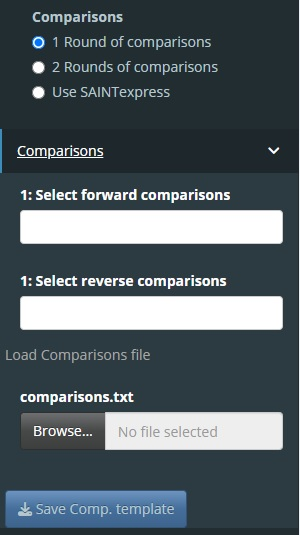
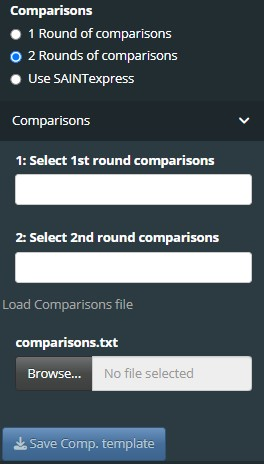
Added PCA values download option
Added to help file

diff --git a/app/www/index.html b/app/www/index.html
@@ -41,7 +41,7 @@
 <h3><FONT COLOR="#000000">2. Save Exp. Template</h3>
 <h3><FONT COLOR="#000000">3. Modify Exp. Template (Use a spreadsheet editor)</h3>
 <h3><FONT COLOR="#000000">4. Load modified Exp. Template</h3>
-<h3><FONT COLOR="#000000">5. Pick Comparisons or Generate comparison file from Comp. template</h3>
+<h3><FONT COLOR="#000000">5. Pick Comparisons or Generate comparison file from Comp. template and upload</h3>
 <h3><FONT COLOR="#000000">6. Press "Analyse"</h3>
 <h1><FONT COLOR="#61D04F">Instructions</h1>
 <h2><FONT COLOR="#2297E6">Sidebar Menu</h2>
@@ -71,9 +71,9 @@
 			<div class="text">
 				<h3>Choose Comparisons</h3>
 				<p>The app can process either one set of comparisons, two sets of comparisons or one set of comparisons with SAINTexpress processing. </p>
-				<p>The comparisons choices are generated automatically from the condition column, and are in both orientations. Eg. Cond.A_vs_Cond.B will be found in the forward comparisons list and Cond.B_vs_Cond.A will be found in the reverse comparisons list. Multiple comparisons can be selected from either drop down box, and then they are combined to give the total comparison list.</p>
+				<p>The comparisons choices are generated automatically from the condition column of the Experimental Design file and are in both orientations. Eg. Cond.A_vs_Cond.B and Cond.B_vs_Cond.A. Multiple comparisons can be selected from the drop down box.</p>
 				<h3>Second round of comparisons</h3>
-				<p>If the "2 Rounds of comparisons" is selected a further set of two drop boxes will appear. This allows two independent comparisons with different cut-off values, to be analysed, which are then  combined to generate a protein list that common to both. The 2nd round comparisons are chosen in the same manner as the 1st. </p>
+				<p>If the "2 Rounds of comparisons" is selected a further drop box will appear. This allows two independent comparisons with different cut-off values, to be analysed, which are then  combined to generate a protein list that common to both. The 2nd round comparisons are chosen in the same manner as the 1st. </p>
 				<h3>Comparisons File input</h3>
 				<p>If there are a large amount of conditions it is advised to generate a comparison file. This can be generated by downloading the Comp. template. This contains a list of the conditions the are generated from the Exp template, in the 1st column, which can then be copied into the 2nd and 3rd columns for the 1st round of comparisons, or the 4th and 5th columns for the 2nd round comparisons. If SAINTexpress analysis is performed only the 1st round of comparisons will be used. See the image below for guidance.</p>
 			</div>
@@ -81,6 +81,16 @@
 		<div class="image">
 			<img src="comparisons.jpg" width=400px class="center">
 		</div>
+				<div class="flex-container">
+			<div class="image">
+				<img src="two_dataset.jpg" width=200px>
+			</div>
+			<div class="text">
+				<h3>Two dataset comparison mode</h3>
+				<p>If the Two Dataset comparison mode toggle is activated, this now allows two separate data files to be loaded. They can be from the same data-type or different (eg. MaxQuant and FragPipe analysis, or FragPipe DDA and DIA data). Each must have is own Experimental Design file, which can be generated from its specific template file. The comparison template file will now have a sixth column containing the list of the conditions from the second Experimental Template, which must be used to generate the conditions for the second round of comparisons (4th and 5th columns).</p> 
+			</div>
+		</div>
+
 			<div class="text">
 		<h3><FONT COLOR="#000000">Start Analysis</h3>
 			<p>After the comparisons have been selected press the "Analyse" button to begin the calculations.</p>
@@ -104,7 +114,7 @@
 				<h3>Set Fold-change and p-adj. cut off values</h3>
 				<p>Fold-change cut off values will be converted to log2Fold-Change. For an identified protein to be included in the significant list the fold change must be >= the the chosen value in one of the chosen comparisons. </p>
 				<p>p-adj vale cut-off. For an identified protein to be included in the significant list the p-adj value must be <= the chosen value in one of the chosen comparisons. p-adj values should normally be used for selecting cut-off values, however the cut-off values can be changed to using non-adjusted p.Val by selecting the "Use p.Val" box.</p>
-				<p>Fold-change and p-adj values for the 2 round of comparisons can be specified in the second set of boxes  </p>
+				<p>Fold-change and p-adj values for the 2 round of comparisons or the second dataset can be specified in the second set of boxes  </p>
 			</div>
 		</div>
 		<div class="flex-container">
@@ -145,11 +155,16 @@
 				<p><i>imputed: </i>Shows the log2 intensities for each of the after normalisation and imputation for each of the samples, indicating replicates</p>
 			</div>
 		</div>
-		
+		<div class="flex-container">
+			<div class="image">
+				<img src="abund_heatmap.jpg" width=200px>
+			</div>
 			<div class="text">
-				<h3><FONT COLOR="#000000">Heatmap</h3>
-				<p>This shows basic heatmaps of the significant protein list. The can be displayed as either <i>contrast: </i>Shows the log2 Fold Change values for the selected comparisons or <i>centrered: </i>Shows the log2 centered intensities (after imputation) for each of the samples. The color limit, Heatmap size and K means cluster number can be altered using the input boxes and the plot can be downloaded using the "Save heatmap" button. It can be can be resized using the "PDF Width" and "PDF Height" buttons.</p>
-				</div>
+				<h3><FONT COLOR="#000000">Abundance Heatmap</h3>
+				<p>This shows a heatmap of the log2 Intensity values of the most abundant proteins as ranked by their average log2 intensity over all the samples. The number of most abundant proteins can be changed using the input box, and the values can be switched from <i>imputed</i> to <i>normalised</i> values. Normalised values will contain missing values indicated by grey boxes. The heatmap can also be switched to show just the proteins from the significant protein list. The top annotation shows a violin plot indicating the log2 intensity values for each sample, for the proteins shown. The right annotation shown the mean intensity value for each protein, if normalised values are chosen the missing values are excluded from mean calculation.  The plot can be downloaded using the "Save heatmap" button. It can be can be resized using the "PDF Width" and "PDF Height" buttons. Below the the heatmap is a table containing the heatmap values along with information on the protein name and accession ID. This can be downloaded using the "Save Abundance Table" button. If a second dataset is loaded a second Abundance Heatmap will be available. </p>
+				
+			</div>
+		</div>
 		
 		<div class="flex-container">
 			<div class="image">
@@ -168,7 +183,7 @@
 			</div>
 			<div class="text">
 			<h3><FONT COLOR="#000000">PCA</h3>
-				<p>The Principle Component Analysis plot shows similarities between groups of samples in a data set. Each point on a PCA plot represents a correlation between an initial variable and the first and second principal components. Ideally the points should be grouped together for each of the conditions (as shown), rather than grouped by replicate, or grouped randomly. The plot can be saved as a pdf file and resized using the "PDF Width" and "PDF Height" buttons.</p>
+				<p>The Principle Component Analysis plot shows similarities between groups of samples in a data set. Each point on a PCA plot represents a correlation between an initial variable and the first and second principal components. Ideally the points should be grouped together for each of the conditions (as shown), rather than grouped by replicate, or grouped randomly. The plot can be saved as a pdf file and resized using the "PDF Width" and "PDF Height" buttons. The values used to generate the plot can also be downloaded for plotting in another application using the "Save Values" button. If two datasets are loaded a second PCA plot will be available. </p>
 			</div>
 		</div>
 
@@ -178,7 +193,7 @@
 			</div>
 			<div class="text">
 			<h3><FONT COLOR="#000000">Correlation</h3>
-				<p>The correlation tab shows heatmap showing the Pearson correlations between the different samples, using ratio data from the chosen comparisons. Ideally the sample replicates should be grouped together for each condition. If the plot is uniformly coloured over the entire plot this indicated there is only small differences between the samples. If two rounds of comparisons are chosen a second correlation plot is shown in a separate tab, based on the ratios from the second set of comparisons. The plots can be saved as a pdf files and resized using the "PDF Width" and "PDF Height" buttons.</p>
+				<p>The correlation tab shows heatmap showing the Pearson correlations between the different samples, using ratio data from the chosen comparisons. Ideally the sample replicates should be grouped together for each condition. If the plot is uniformly coloured over the entire plot this indicated there is only small differences between the samples. If two rounds of comparisons are chosen a second correlation plot is shown in a separate tab, based on the ratios from the second set of comparisons. The plots can be saved as a pdf files and resized using the "PDF Width" and "PDF Height" buttons. If two datasets are loaded a second Correlation plot will be available.</p>
 			</div>
 		</div>
 			
@@ -193,15 +208,15 @@
 			</div>
 			
 		<h3><FONT COLOR="#2297E6">QC Plots</h3>
+		<div class="flex-container">
 			<div class="image">
 				<img src="numbers.jpg" width=200px>
 			</div>
 			<div class="text">
 				<h3><FONT COLOR="#000000">Protein Numbers</h3>
 					<p>This plot shows the number of identified proteins per sample after filtering. Filtering can be controlled using the "Missing value threshold as described earlier. </p>
-				</div>
 			</div>
-
+		</div>
 		<div class="flex-container">
 			<div class="image">
 				<img src="norm.jpg" width=200px>
@@ -210,7 +225,7 @@
 				<h3><FONT COLOR="#000000">Normalization</h3>
 					<p>The data is background corrected and normalized by variance stabilizing transformation (vsn). The distribution of the protein intensities is indicated for each sample before and after normalisation</p>
 			</div>
-			</div>
+		</div>
 			
 		<div class="flex-container">
 			<div class="image">
@@ -265,6 +280,31 @@
 				<p>The enhanced volcano plot can be saved as a pdf file and resized using the adjacent "PDF Width" and "PDF Height" buttons.</p>
 			</div>
 		</div>
+		<div class="flex-container">
+			<div class="image">
+				<img src="box_plots.jpg" width=300px>
+			</div>
+			<div class="text">
+				<h3><FONT COLOR="#000000">Box plots</h3>
+				<p>Box plots showing the log2 intensity values for each condition for all the proteins from chosen cluster are shown. The intensity values can be switched between imputed values or normalised only values, and the chosen cluster number can be changed. These plots can be used to asses the effect of imputation on the data and to identify which values were missing. It can also be used to evaluate the quality of each the replicates to observe if any set of replicates were consistent outliers.</p>
+				<p>The box plots can be saved as a pdf file and resized using the adjacent "PDF Width" and "PDF Height" buttons.</p>
+			</div>
+		</div>
+		<div class="flex-container">
+			<div class="image">
+				<img src="cell_comp_plot.jpg" width=300px>
+			</div>
+			<div class="text">
+				<h3><FONT COLOR="#000000">Gene Ontology plots</h3>
+				<p>Box plots showing the log2 intensity values for each condition for all the proteins from chosen cluster are shown. The intensity values can be switched between imputed values or normalised only values, and the chosen cluster number can be changed. These plots can be used to asses the effect of imputation on the data and to identify which values were missing. It can also be used to evaluate the quality of each the replicates to observe if any set of replicates were consistent outliers.</p>
+				<p>The box plots can be saved as a pdf file and resized using the adjacent "PDF Width" and "PDF Height" buttons.</p>
+			</div>
+						<div class="image">
+				<img src="cell_comp_map.jpg" width=300px>
+			</div>
+
+		</div>
+
 
 				
 </body>
